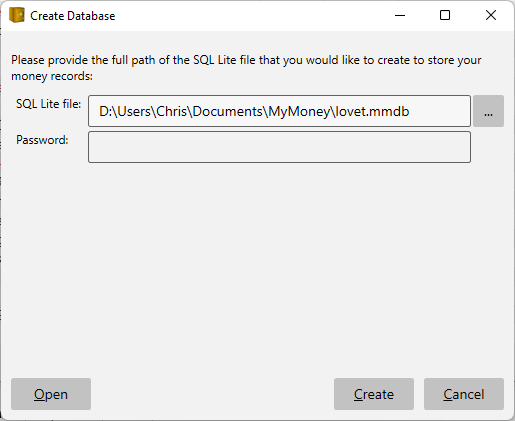
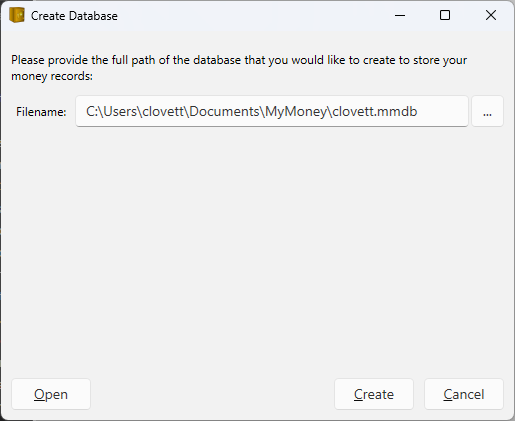
- Fix problem with open file dialog, where it was incorrectly inserting password from windows credential store on Sqllite databases. - Fix misleading documentation about Sqllite passwords. - Publish version 2.1.0.2

diff --git a/Source/WPF/MyMoney/Dialogs/CreateDatabaseDialog.xaml.cs b/Source/WPF/MyMoney/Dialogs/CreateDatabaseDialog.xaml.cs
@@ -271,7 +271,14 @@ namespace Walkabout.Dialogs
 
             try
             {
-                this.TextBoxPassword.Password = "" + DatabaseSecurity.LoadDatabasePassword(this.TextBoxFile.Text);
+                if (this.TextBoxPassword.Visibility == Visibility.Visible)
+                {
+                    this.TextBoxPassword.Password = "" + DatabaseSecurity.LoadDatabasePassword(this.TextBoxFile.Text);
+                }
+                else
+                {
+                    this.TextBoxPassword.Password = "";
+                }
             }
             catch { }
         }

diff --git a/Source/WPF/Version/Version.cs b/Source/WPF/Version/Version.cs
@@ -6,5 +6,5 @@ using System.Reflection;
 // And also sync this with the MSIX package manifest in
 // ~\MyMoney.Net\Source\WPF\MoneyPackage\Package.appxmanifest
 
-[assembly: AssemblyVersion("2.1.0.1")]
-[assembly: AssemblyFileVersion("2.1.0.1")]
+[assembly: AssemblyVersion("2.1.0.2")]
+[assembly: AssemblyFileVersion("2.1.0.2")]

diff --git a/docs/Basics/Setup.md b/docs/Basics/Setup.md
@@ -1,9 +1,37 @@
 
 # Setup
 
-When you first launch the app you will be greeted with a setup dialog where you can choose where to put your SQL lite database and a password to protect it.
+
+When you first launch the app you will be greeted with a setup dialog where you can choose where to put your money database.
 
 ![](../Images/Setup.png)
+
+You should choose a folder that is otherwise empty because MyMoney.Net will create some more
+folders inside the location you choose to store [Attachments](Attachments.md),
+[Statements](../Accounts/Statemnents.md), [Online Banking](./Accounts/OnlineBanking.md) Logs, and optional
+[StockQuotes](../Accounts/StockQuoteServices.md).  If you move the database, you will want to
+move all this together and maintain the same folder hierarchy.
+
+The ellipsis button to the right of the filename allows you to choose an existing database and optionally change the file type from SqlLite (*.mmdb) to one of the following:
+
+![](../Images/DatabaseTypes.png)
+
+The XML and Binary XML options are experimental and have not been fully tested.
+
+The database file is portable so you can move it using USB storage device, or store it on a folder that gets synchronized across your machines automatically. 
+
+## Security
+
+MyMoney.NET on .NET 7.0 does not support adding a password to your **SQL Lite** databases, but you
+can set a password on the **Binary XML** files. This password is also saved in your local Windows
+Credential Store so you don't have to keep typing it in.  But this convenience could also help you
+forget the password.  If you open your Windows Credential Manager you will see an entry with a name
+starting with "MyMoney".
+
+Be sure to backup your password in your favorite Password Manager because if you forget it MyMoney
+provides no way to recover it.
+
+## Welcome
 
 Once you have completed your database setup you will be welcomed by the following screen. 
 
@@ -15,30 +43,18 @@ On the left you see four expandable panels for managing [Bank Accounts](../Accou
 
 If you just want to play with the app to get a feel for it you can populate your new database with [Sample Data](SampleData.md).
 
-## Security
 
-**SQL Lite**   stores your data in single file with name ending in *.mmdb.  The file is portable so you can move it with you or store it on a folder that gets synchronized across your machines automatically.  It is strongly recommended that you also provide password to encrypt the file so if anyone steals the file they will not be able to read what is in it.
+## Troubleshooting
 
-The following shows an example of what you see inside of an encrypted SQL lite database:
-
-    7e 88 c6 85 95 8d 3e 05 c7 af c9 28 bd 82 e1 a0 ~.....>....(....
-    e7 0e 48 90 70 31 c4 b7 db d7 68 fb e3 86 33 29 ..H.p1....h...3)
-    59 8d ed d5 97 16 cb 20 24 48 b3 b3 2e b1 0e 68 Y...... $H.....h
-    ef 2f 05 47 16 d1 52 1b 00 0e e7 b2 ce ac ac 4b ./.G..R........K
-    e6 8b b9 f9 06 fa bd 1b c4 73 92 35 10 39 a2 1c .........s.5.9..
-    33 a2 b7 3b 5c 4c bc de 08 e2 1b 44 8e 9d c3 97 3..;\L.....D....
-    39 95 12 e2 96 fa c2 28 62 6e 51 ab aa c3 1f d9 9......(bnQ.....
-    93 d1 24 f8 ca 7e 6d 81 eb 74 e5 44 36 9c 4c 3a ..$..~m..t.D6.L:
-
-As you can see the encryption makes it impossible to read, so your data is secure.
-
-If you are opening an existing database using File.Open then you need to ensure you provide the correct password, otherwise you might see an error message like this, which is the result of a failed decryption.  This is what a hacker will see :-)
+If you are opening an existing database using File.Open that had a password from an older version
+of MyMoney.Net you might see an error message like this, which is the result of a failed decryption. 
 
 ![](../Images/Setup1.png)
 
-You can change the password using the View "[Options](Options.md)" menu item.
+The new .NET 7.0 version of MyMoney.Net does not support passwords.  This means if you are upgrading
+to this new version you have to first remove the password from your database, then do the upgrade.
+If you forgot to do that then you can install this
+[old version using winget](https://winget.run/pkg/LovettSoftware/MyMoney.Net) that does work with a password, remove the password, then re-install the new version.
 
-To open a password protected file on another machine you must provide the same password that was used to save it.  The password is saved in your local Windows Credential Store so you don't have to keep typing it in.  But this convenience could also help you forget the password.  If you open your Windows Credential Manager you will see an entry with a name starting with "MyMoney".
-
-Be sure to backup your password in your favorite Password Manager
-because if you forget it MyMoney provides no way to recover it.
+You can remove the password using the View "[Options](Options.md)" menu item, clear the password,
+then hit Save.

diff --git a/docs/Basics/Options.md b/docs/Basics/Options.md
@@ -6,17 +6,12 @@ Under the View menu there is an Options… item that will bring up the following
 
 You can use this to:
 
-* change your database password,
-* select a new UI Theme (Light or Dark)
-* change when the fiscal year starts,
+* Change your database password (if passwords are supported on your database file type).
+* Select a new UI Theme (Light or Dark).
+* Change when the fiscal year starts.
 * Enable/Disable the Rental Management feature
 * Enable/Disable playing of any sounds.
+* Configure how Ctrl+Space works during account balancing.
 
 
 See also [Keyboard](Keyboard.md)
-
-
-
-
-
-

diff --git a/docs/index.md b/docs/index.md
@@ -27,7 +27,7 @@ Save a lot of typing using [Online Banking](Accounts/OnlineBanking.md) to downlo
 
 ![](Images/Home4.png)
 
-Secure storage of your data in a password protected SQL Lite database.  See [Setup](Basics/Setup.md) for details.
+Secure storage of your data in a local SQL Lite database.  See [Setup](Basics/Setup.md) for details.
 
 ![](Images/Home5.png)
 
